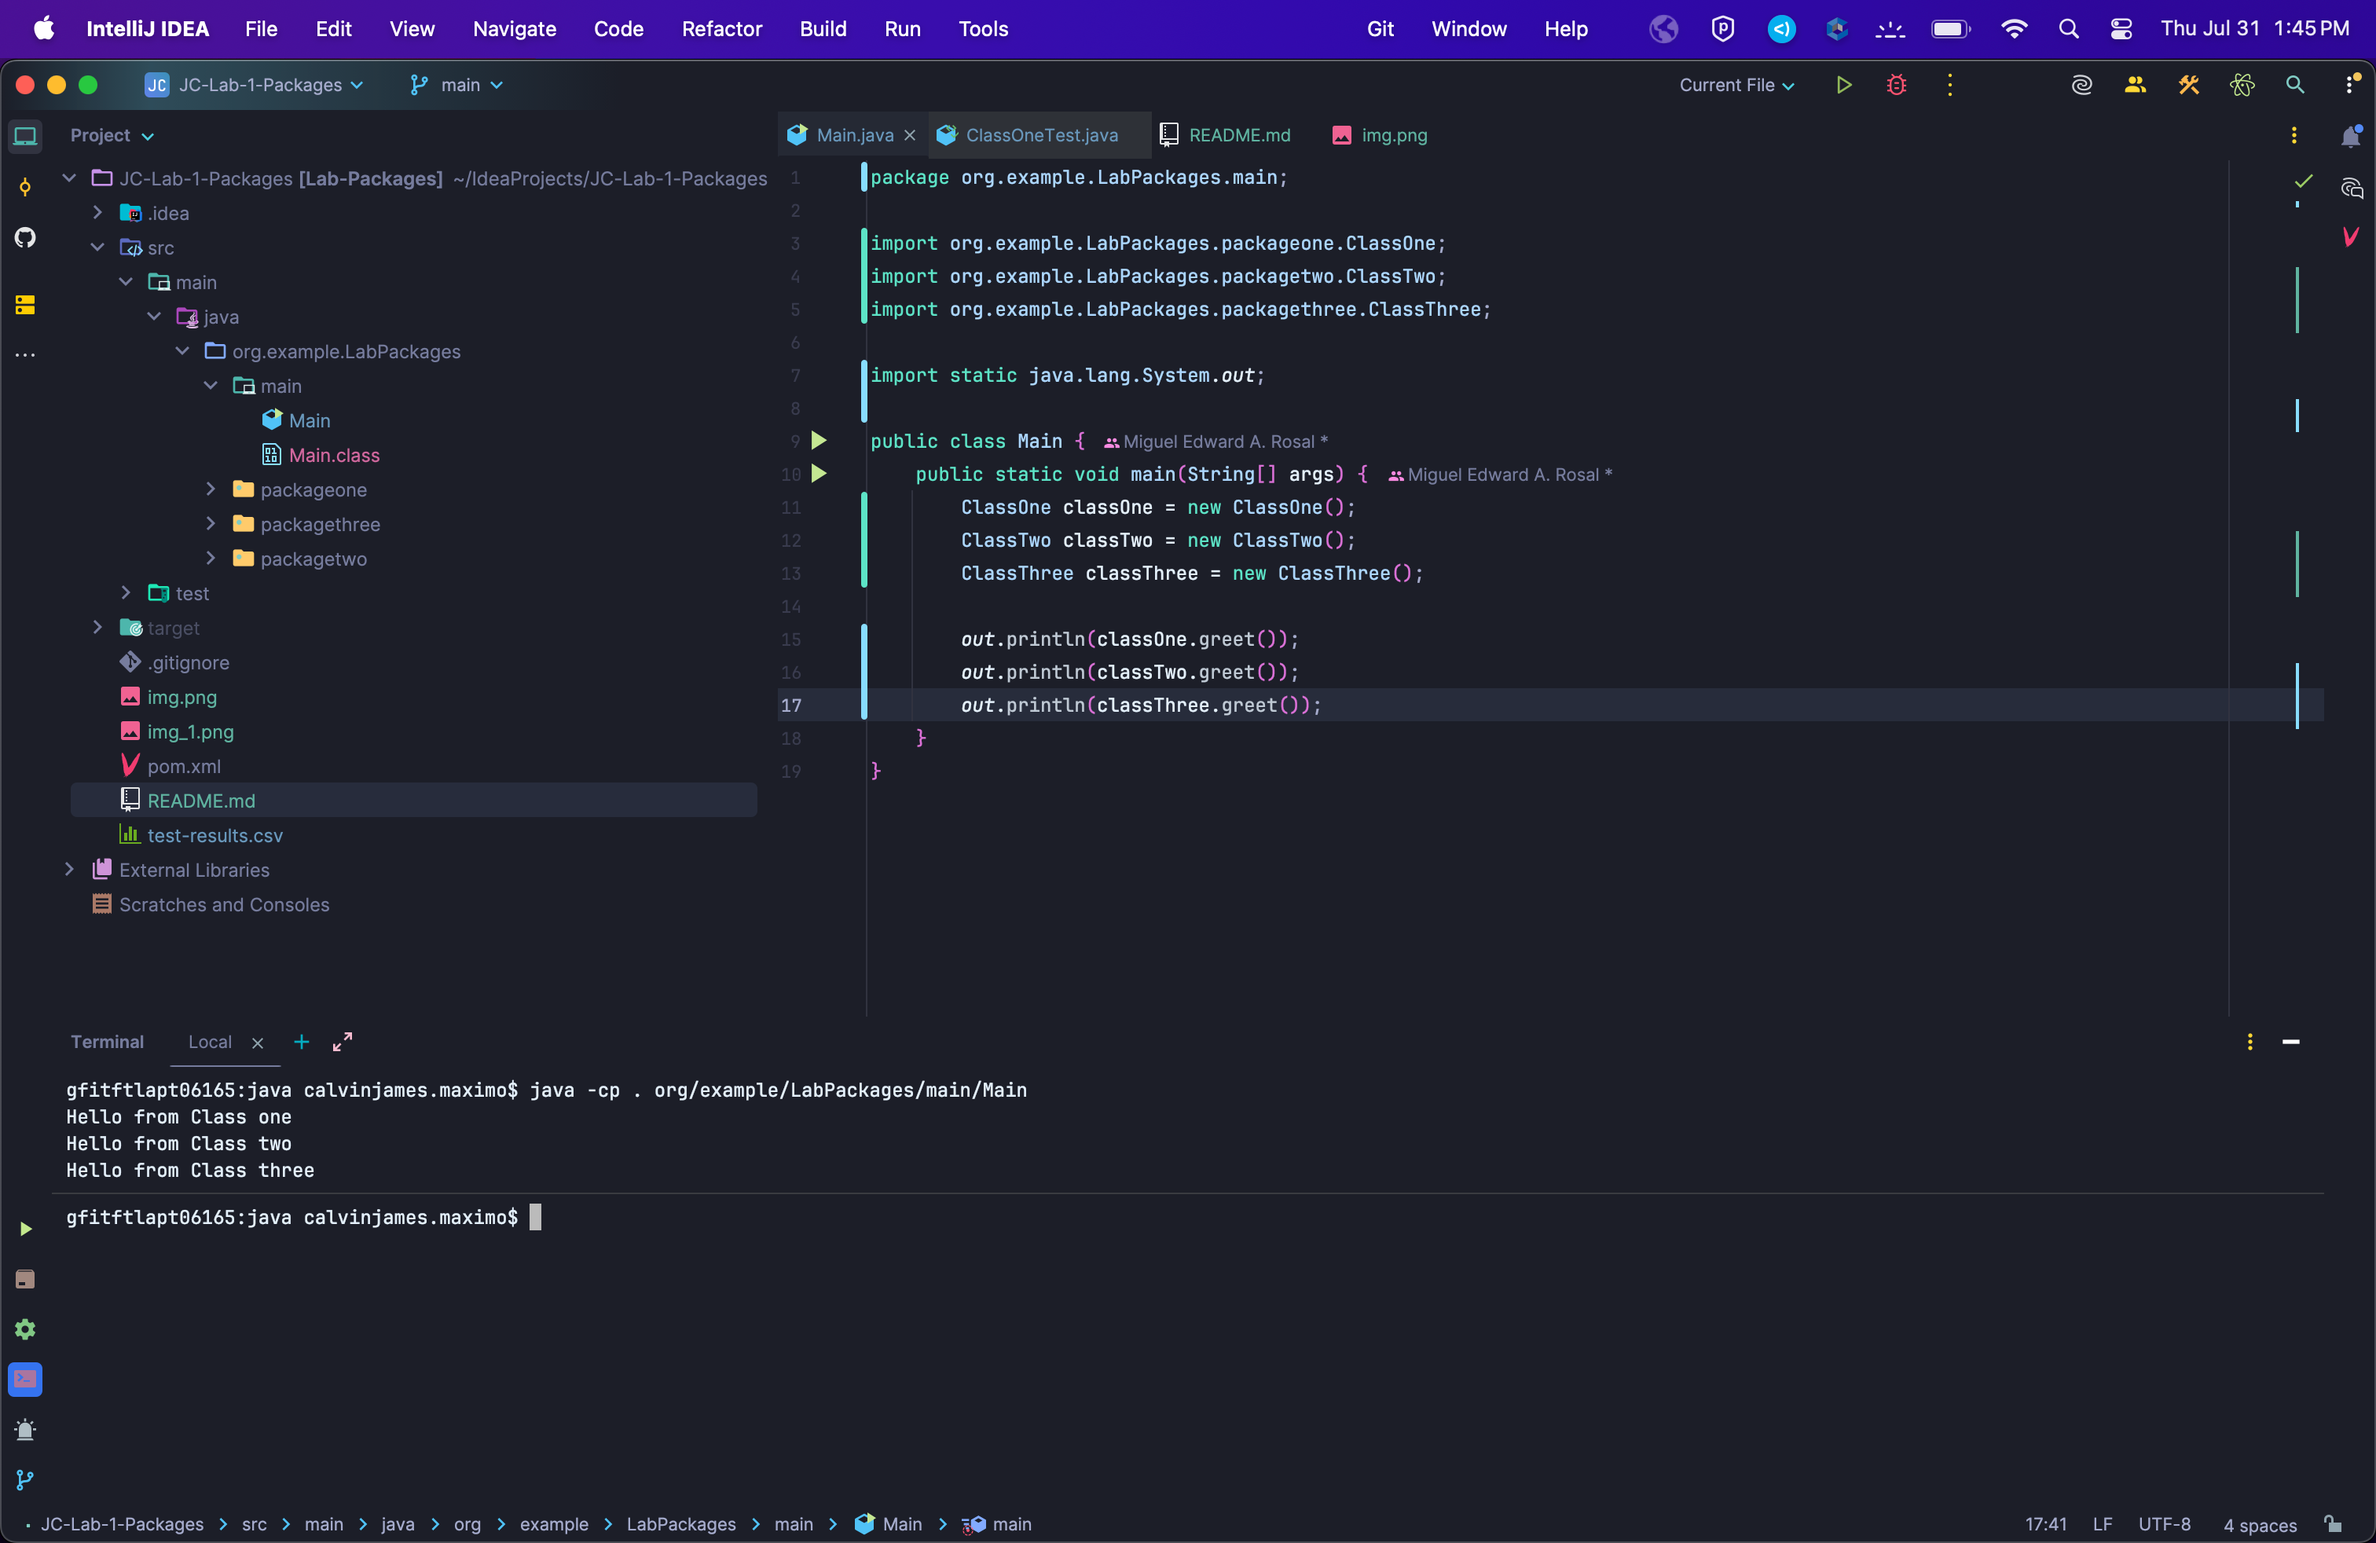
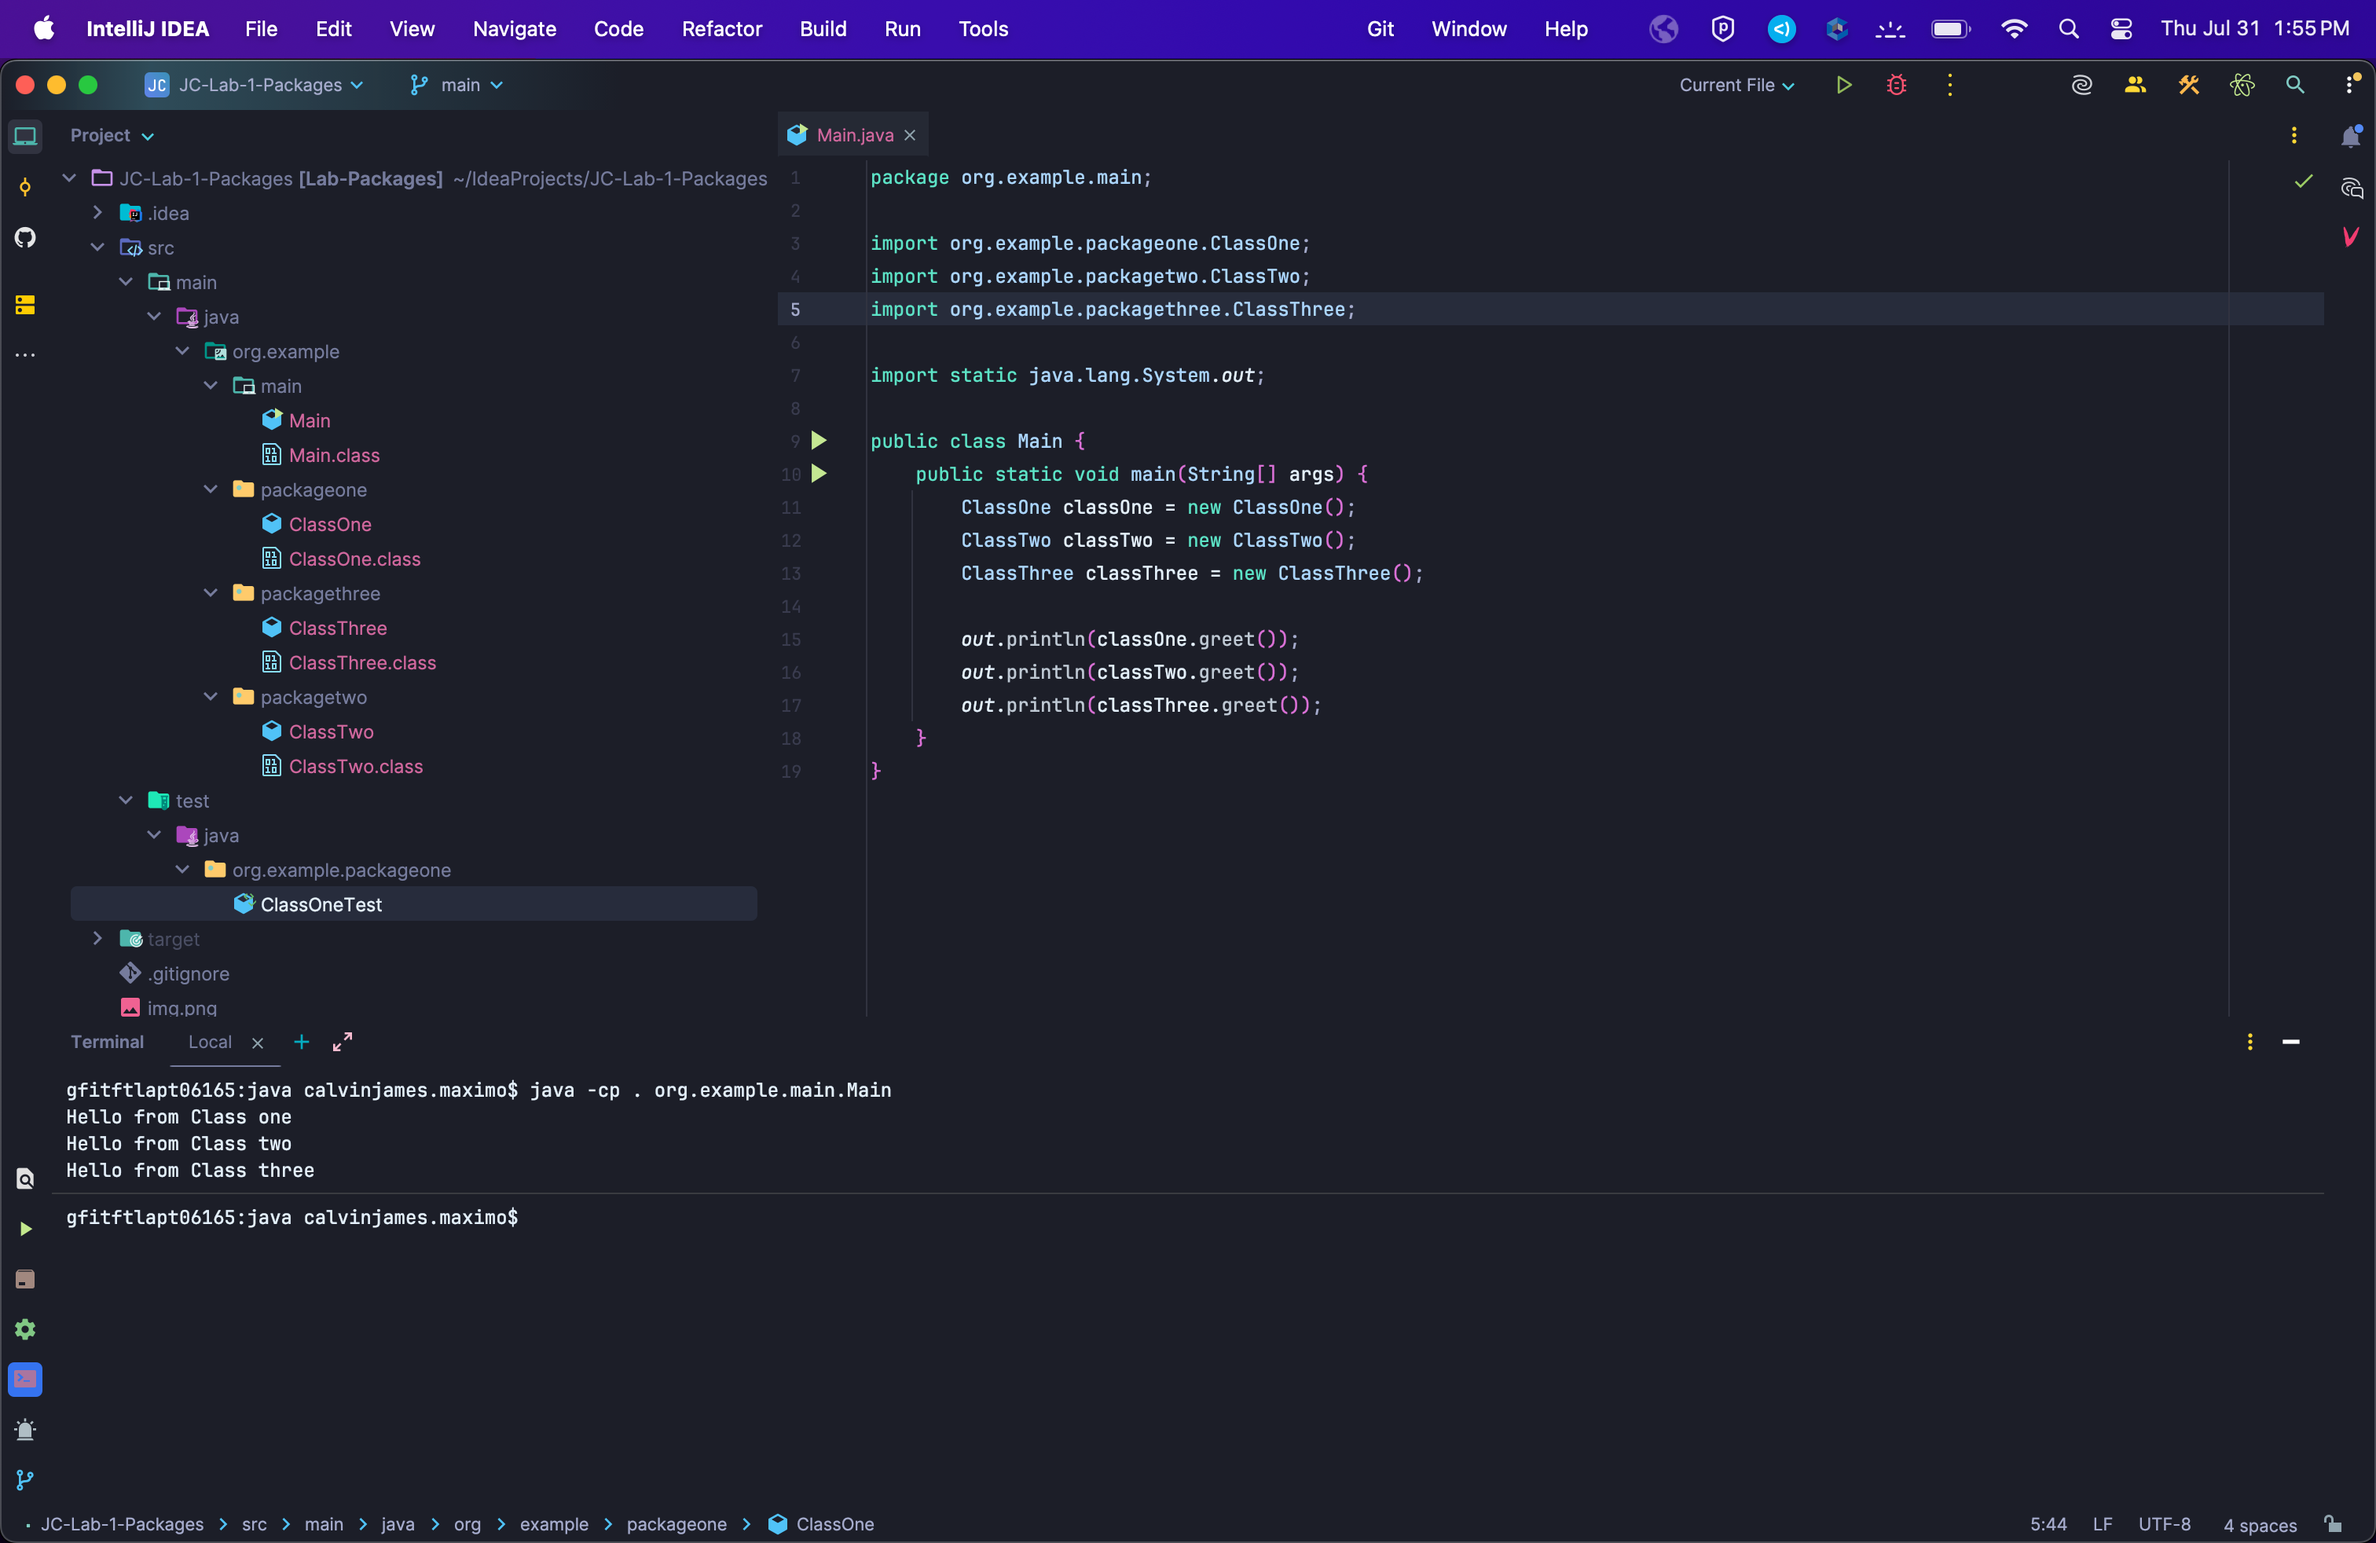
feat: finish the lab

diff --git a/src/main/java/org/example/main/Main.java b/src/main/java/org/example/main/Main.java
@@ -1,8 +1,8 @@
-package org.example.LabPackages.main;
+package org.example.main;
 
-import org.example.LabPackages.packageone.ClassOne;
-import org.example.LabPackages.packagetwo.ClassTwo;
-import org.example.LabPackages.packagethree.ClassThree;
+import org.example.packageone.ClassOne;
+import org.example.packagetwo.ClassTwo;
+import org.example.packagethree.ClassThree;
 
 import static java.lang.System.out;
 

diff --git a/src/main/java/org/example/packagethree/ClassThree.java b/src/main/java/org/example/packagethree/ClassThree.java
@@ -1,4 +1,4 @@
-package org.example.LabPackages.packagethree;
+package org.example.packagethree;
 
 public class ClassThree {
     public String greet() {

diff --git a/src/main/java/org/example/packageone/ClassOne.java b/src/main/java/org/example/packageone/ClassOne.java
@@ -1,4 +1,4 @@
-package org.example.LabPackages.packageone;
+package org.example.packageone;
 
 public class ClassOne {
     public String greet() {

diff --git a/src/main/java/org/example/packagetwo/ClassTwo.java b/src/main/java/org/example/packagetwo/ClassTwo.java
@@ -1,4 +1,4 @@
-package org.example.LabPackages.packagetwo;
+package org.example.packagetwo;
 
 public class ClassTwo {
     public String greet() {
